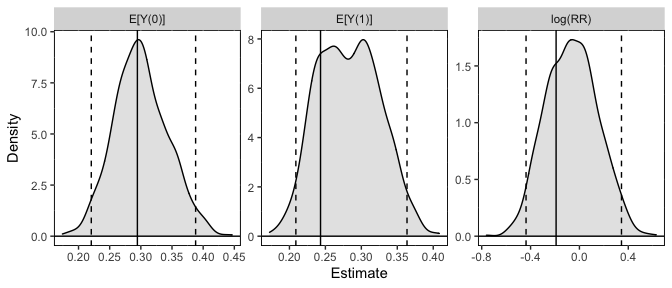
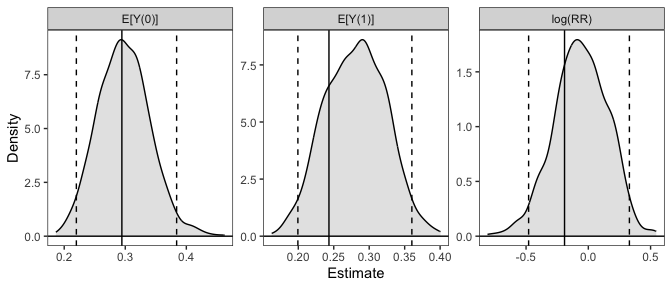
Updates

diff --git a/README.md b/README.md
@@ -1,7 +1,7 @@
 
 <!-- README.md is generated from README.Rmd. Please edit that file -->
 
-# `simbased`: Simulation-Based Inference for Regression Models
+# `{simbased}`: Simulation-Based Inference for Regression Models
 
 <!-- badges: start -->
 
@@ -9,13 +9,13 @@
 status](https://www.r-pkg.org/badges/version/simbased)](https://CRAN.R-project.org/package=simbased)
 <!-- badges: end -->
 
-`simbased` implements simulation-based inference as an alternative to
+`{simbased}` implements simulation-based inference as an alternative to
 the delta method for computing functions of model parameters, such as
 average marginal effects.
 
 ## Installation
 
-You can install the development version of `simbased` from
+You can install the development version of `{simbased}` from
 [GitHub](https://github.com/) with:
 
 ``` r
@@ -58,20 +58,20 @@ distributed, its standard error can be estimated as the standard
 deviation of the estimates and normal-theory confidence intervals and
 p-values can be computed.
 
-The `simbased` package was designed to provide a simple, general
+The `{simbased}` package was designed to provide a simple, general
 interface to simulation-based inference, along with a few convenience
 functions to perform common tasks like computing average marginal
-effects. The primary functions of `simbased` are `sim()`, `sim_apply()`,
-`summary()`, and `plot()`. These work together to create a simple
-workflow for simulation-based inference.
+effects. The primary functions of `{simbased}` are `sim()`,
+`sim_apply()`, `summary()`, and `plot()`. These work together to create
+a simple workflow for simulation-based inference.
 
--   `sim()` simulates model parameters from a fitted model
--   `sim_apply()` applies an estimator to the simulated coefficients, or
-    to the original object but with the new coefficients inserted
--   `summary()` produces confidence intervals and p-values for the
-    resulting estimates
--   `plot()` produces plots of the simulated sampling distribution of
-    the resulting estimates
+- `sim()` simulates model parameters from a fitted model
+- `sim_apply()` applies an estimator to the simulated coefficients, or
+  to the original object but with the new coefficients inserted
+- `summary()` produces confidence intervals and p-values for the
+  resulting estimates
+- `plot()` produces plots of the simulated sampling distribution of the
+  resulting estimates
 
 There are also some wrappers for `sim_apply()` for performing some
 common operations: `sim_ame()` computes the average marginal effect of a
@@ -113,16 +113,17 @@ sim_est <- sim_apply(sim_coefs, function(fit) {
 sim_est
 #> A `simbased_est` object (from `sim_apply()`)
 #>  - 1000 simulated values
-#>  - 3 quantities estimated:
-#>    E[Y(0)]    E[Y(1)]    log(RR) 
-#>  0.2944381  0.2432432 -0.1910068
+#>  - 3 quantities estimated:                   
+#>  E[Y(0)]  0.2944381
+#>  E[Y(1)]  0.2432432
+#>  log(RR) -0.1910068
 
 #View the estimates, confidence intervals, and p-values
 summary(sim_est, null = c(NA, NA, 0))
-#>         Estimate CI 2.5 % CI 97.5 % P-value
-#> E[Y(0)]    0.294    0.220     0.388       .
-#> E[Y(1)]    0.243    0.209     0.364       .
-#> log(RR)   -0.191   -0.437     0.344    0.79
+#>         Estimate  2.5 % 97.5 % P-value
+#> E[Y(0)]    0.294  0.220  0.384       .
+#> E[Y(1)]    0.243  0.199  0.360       .
+#> log(RR)   -0.191 -0.479  0.330    0.79
 
 #Plot the resulting sampling distributions
 plot(sim_est)
@@ -130,7 +131,7 @@ plot(sim_est)
 
 <img src="man/figures/README-example-1.png" width="80%" />
 
-`simbased` provides a shortcut for computing average marginal effects
+`{simbased}` provides a shortcut for computing average marginal effects
 and comparisons between average adjusted predictions, `sim_ame()`, which
 is essentially a wrapper for `sim_apply()` with extra processing. We can
 compute the log marginal risk ratio below:
@@ -144,15 +145,16 @@ sim_est
 #> A `simbased_est` object (from `sim_ame()`)
 #>  - Average marginal effect of `treat`
 #>  - 1000 simulated values
-#>  - 3 quantities estimated:
-#>    E[Y(0)]    E[Y(1)]    log(RR) 
-#>  0.2944381  0.2432432 -0.1910068
+#>  - 3 quantities estimated:                   
+#>  E[Y(0)]  0.2944381
+#>  E[Y(1)]  0.2432432
+#>  log(RR) -0.1910068
 
 summary(sim_est, null = c(NA, NA, 0))
-#>         Estimate CI 2.5 % CI 97.5 % P-value
-#> E[Y(0)]    0.294    0.220     0.388       .
-#> E[Y(1)]    0.243    0.209     0.364       .
-#> log(RR)   -0.191   -0.437     0.344    0.79
+#>         Estimate  2.5 % 97.5 % P-value
+#> E[Y(0)]    0.294  0.220  0.384       .
+#> E[Y(1)]    0.243  0.199  0.360       .
+#> log(RR)   -0.191 -0.479  0.330    0.79
 ```
 
 We could have used `marginaleffects`, which uses the delta method
@@ -184,16 +186,17 @@ If we want to compute the marginal risk ratio, we can do that using
 #Transform estimates into new quantities of interest
 sim_est <- transform(sim_est, `RR` = exp(`log(RR)`))
 summary(sim_est, null = c(NA, NA, 0, 1))
-#>         Estimate CI 2.5 % CI 97.5 % P-value
-#> E[Y(0)]    0.294    0.220     0.388       .
-#> E[Y(1)]    0.243    0.209     0.364       .
-#> log(RR)   -0.191   -0.437     0.344    0.79
-#> RR         0.826    0.646     1.411    0.79
+#>         Estimate  2.5 % 97.5 % P-value
+#> E[Y(0)]    0.294  0.220  0.384       .
+#> E[Y(1)]    0.243  0.199  0.360       .
+#> log(RR)   -0.191 -0.479  0.330    0.79
+#> RR         0.826  0.619  1.391    0.79
 ```
 
-We can also use `simbased` to compute predictions and first differences
-at set and typical values of the predictors, mimicking the functionality
-of `Zelig`’s `setx()` and `setx1()` functions, using `sim_setx()`:
+We can also use `{simbased}` to compute predictions and first
+differences at set and typical values of the predictors, mimicking the
+functionality of `Zelig`’s `setx()` and `setx1()` functions, using
+`sim_setx()`:
 
 ``` r
 # Predictions across age and treat at typical values
@@ -207,7 +210,7 @@ plot(sim_est)
 
 <img src="man/figures/README-unnamed-chunk-5-1.png" width="80%" />
 
-`simbased` offers parallel processing for all estimation functions to
+`{simbased}` offers parallel processing for all estimation functions to
 speed up computation.
 
 The methodology of simulation-based inference is described in King,
